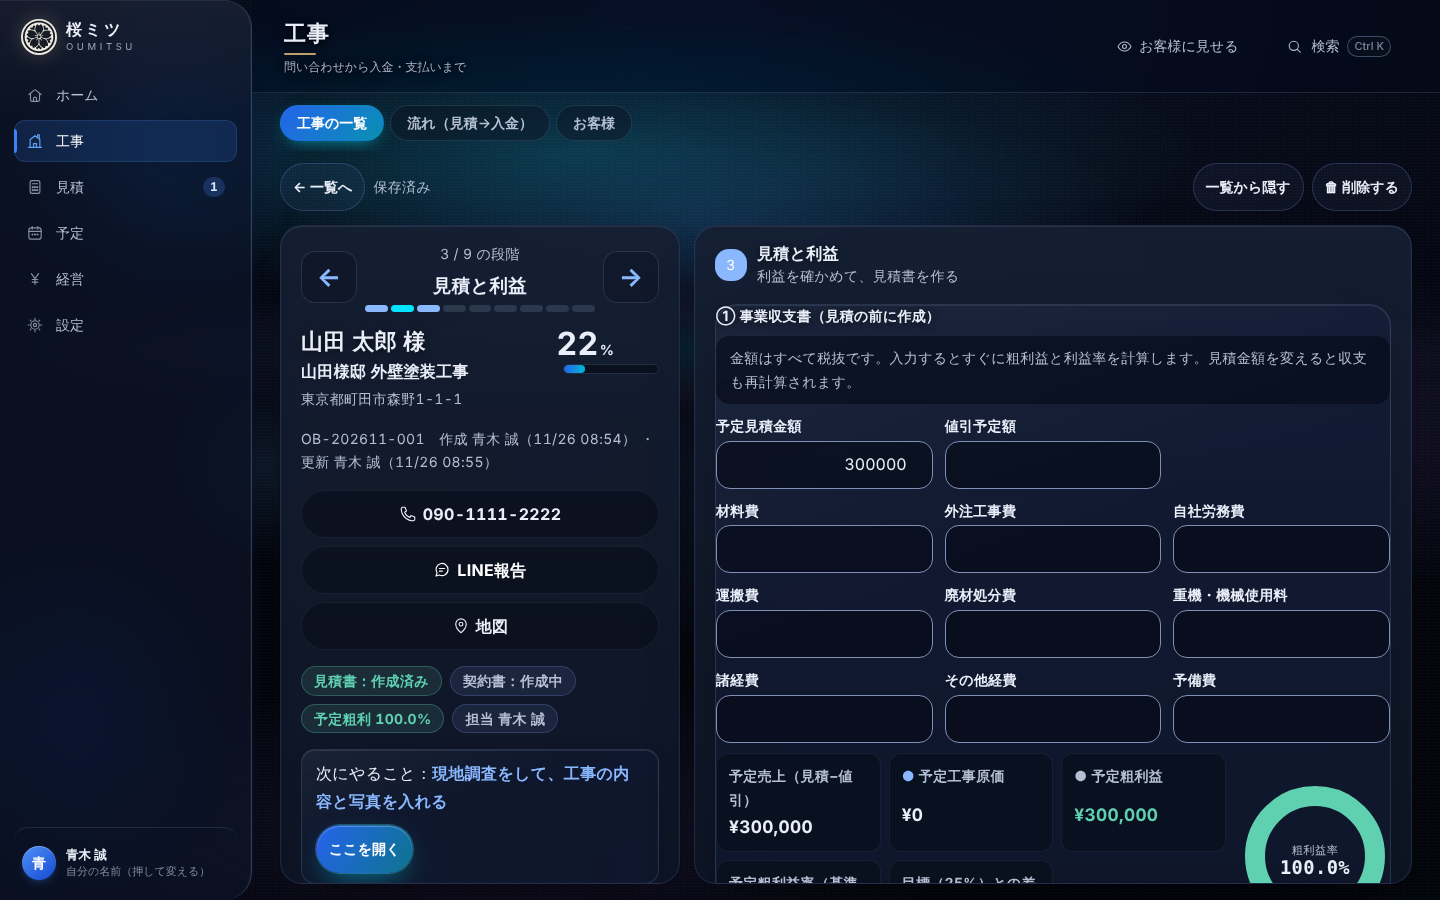
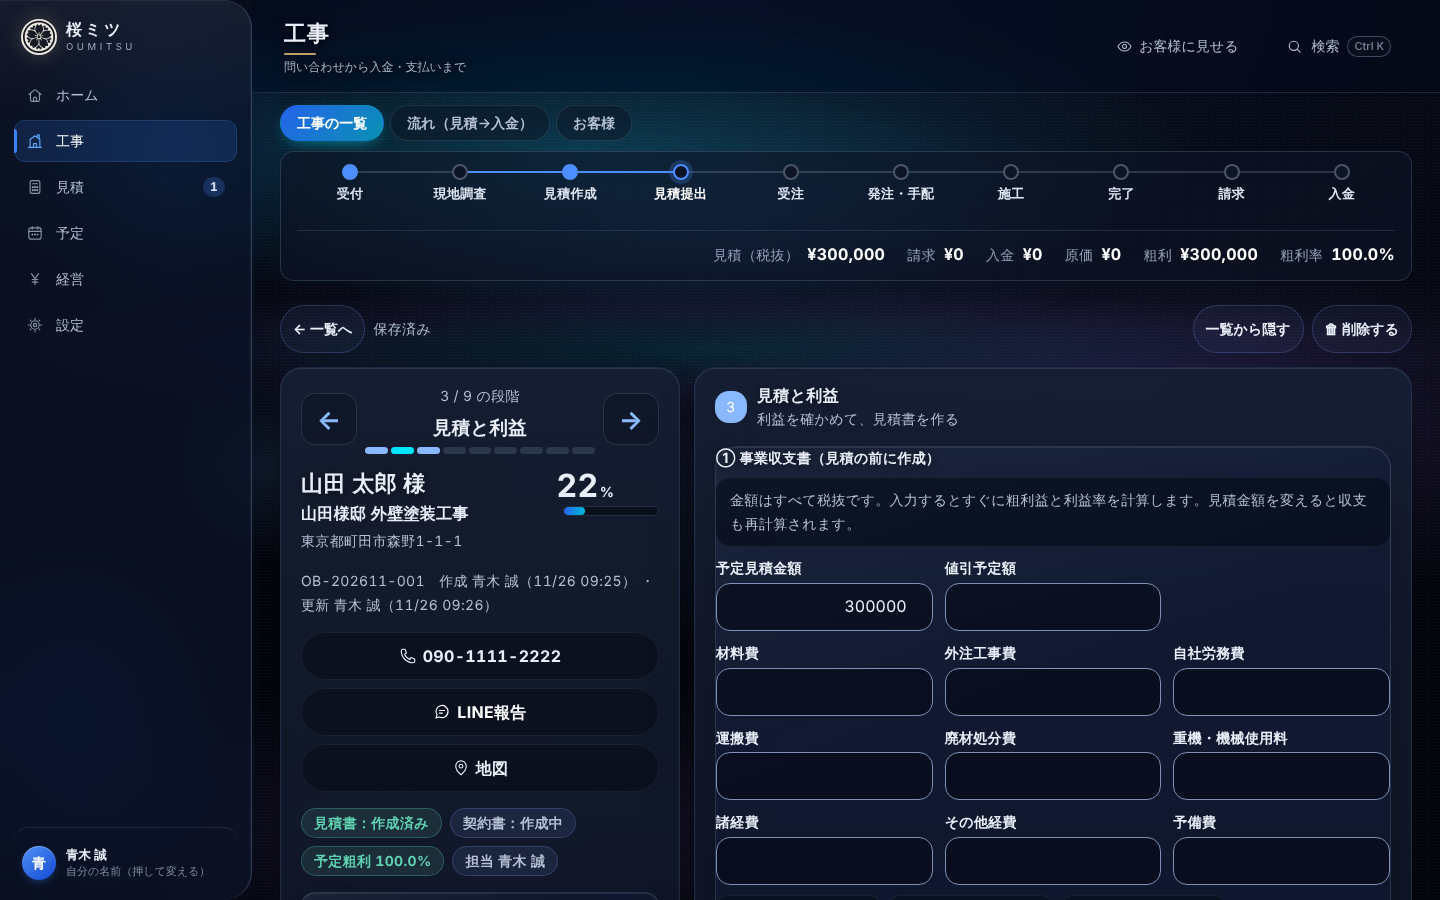
README：見積の作りやすさ・プロワン式の見直しの記録
Claude-Session: https://claude.ai/code/session_011YfgaKNg5BLHuBJZ1Hhi4R

diff --git a/oubi/README.md b/oubi/README.md
@@ -17,6 +17,15 @@
 >   第2群 動きの文法を拡張（今月の数字は0.6〜0.9秒で数え上げて小さく弾む・カードは60ms間隔・画面の切り替えは全画面0.25秒）／サイドバーの選択中はすべるピル／ホームの主役は「今月の請求額」（前月比・6か月の小さな折れ線・先月超えの旗）、残りは小さく＋前月比バッジ（ミント緑・淡い赤）／下段に月別の見積の発行額の折れ線（6・12か月）／明細はドラッグで並べ替えて保存／期限切れ・粗利割れだけ赤系のアラート。
 >   第3〜5群 圏外のしるし（見積・保存・PDF は圏外でも動く）／「お客様に見せる」で原価・粗利・経営を隠す／見積を作るの一番上に最近の3件（複製）／「見積」に件数のバッジ／受注の瞬間に金の縁のお祝い（紙吹雪なし）／発行直後に番号と「お客様へ送る」／ミスの型（A があるのに B がない。設定 → 計算ルールで足す・止める・回数）。
 >   まだ：単価マスタと目標粗利率のどちらを正にするか（判断待ち）。ページを圏外で開き直すことは、公開先（claude.ai）が要るのでできない。
+> - **2026-11-26：見積の作りやすさ**（`easy-estimate/js/make.js`。テストは `oubi/tests/web-make.js`）
+>   工事の種類ごとの入れ忘れチェックリスト（送信前チェックにも）／マイ型（作った見積を型に保存・呼び出し）／概算モード（広さ×目安単価、PDF は概算御見積書、「明細にする」で型に置き換えて概算との差）／寸法から数量（面積・周り・壁・体積・坪）／
+>   条件をまとめて選ぶ（工期・支払い・保証・キャンセル…）／この見積に含まれないもの・前提条件（PDF）／明細のお客様向けの説明（PDF）／見積の脇にお客様の条件（希望時期・予算感・依頼内容）／
+>   数量の＋−とよく使う数量・Alt＋↑↓で行を動かす／検索は読み仮名・最近使った順・カテゴリのピン留め・「土間 30坪」で㎡に／単価の異常値（前の単価の2倍・半分）／似た見積の真ん中との比べ／
+>   提出・期限・残日数の一目表示・期限7日前の再連絡／パターン比較の「違いの要点」／空の状態の影・失敗の状態（もう一度読み込む）。
+> - **2026-11-26：プロワン式の見直し**（テストは `oubi/tests/web-sheet.js`）
+>   明細は表のまま直す（項目・数量・単位・単価・金額・原価・粗利。規格・税・お客様向けの説明・社内メモ・発注先は行を広げて）。**単価は表でも直せるようにした**（マスタと違う行には印と「マスタの単価に戻す」、送信前チェックでも注意）。
+>   手入力の行・表の下の合計のバー（小計・消費税・値引き・合計・原価・粗利）・全画面で編集・税抜/税込（内税）/消費税なし・件名の自動作成（お客様／工事の種類／）・見積の作り方の入口（テンプレート・過去の見積・マイ型・概算・文章・手動）。
+>   工事の詳細の上に工程の帯（受付→現地調査→見積作成→見積提出→受注→発注・手配→施工→完了→請求→入金／失注）と収支（`oubi/caseband.js`。業務管理の画面は書き換えず、build-web.js が oubi.html に入れる）。
 
 
 業務管理アプリ（v24・営業台帳・今日のボードなど）を土台に、見積アプリ「桜ミツ」（`../easy-estimate`）を中に入れたもの。
